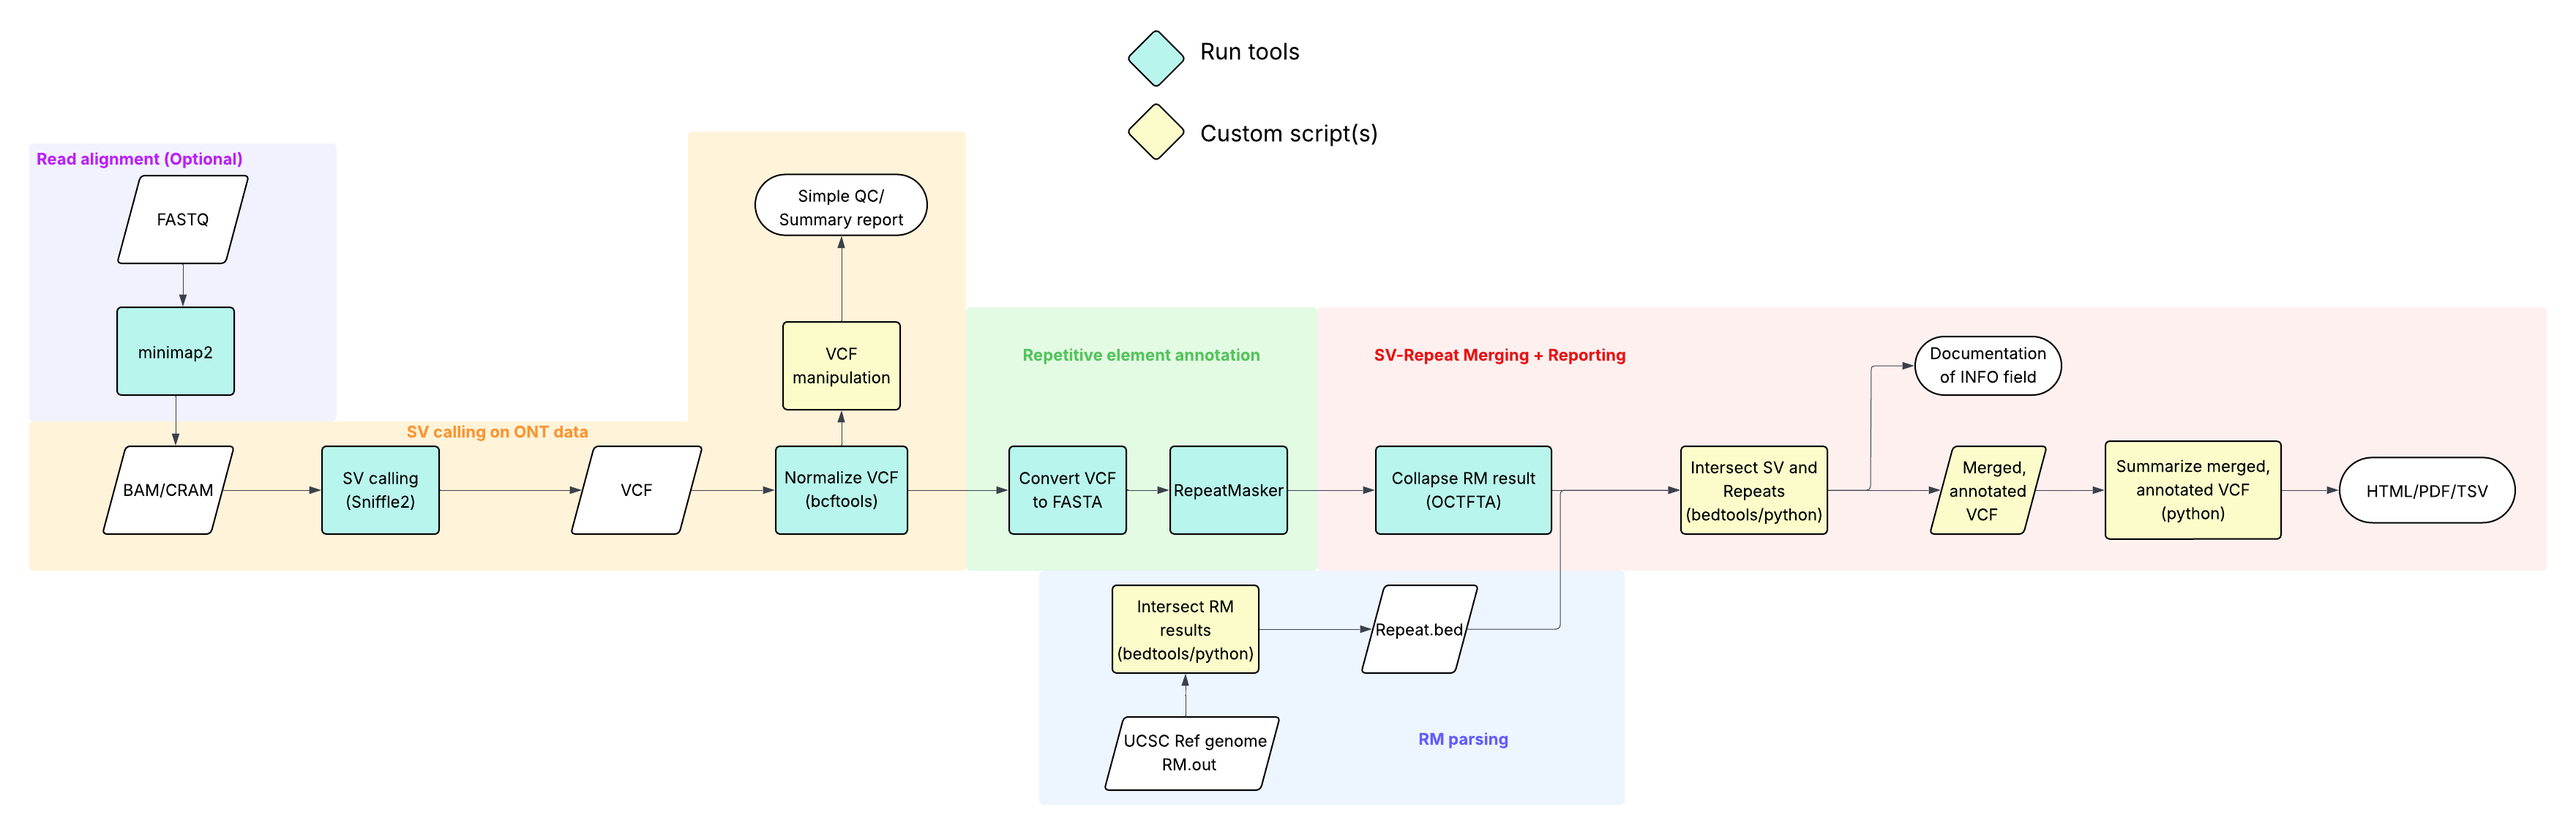
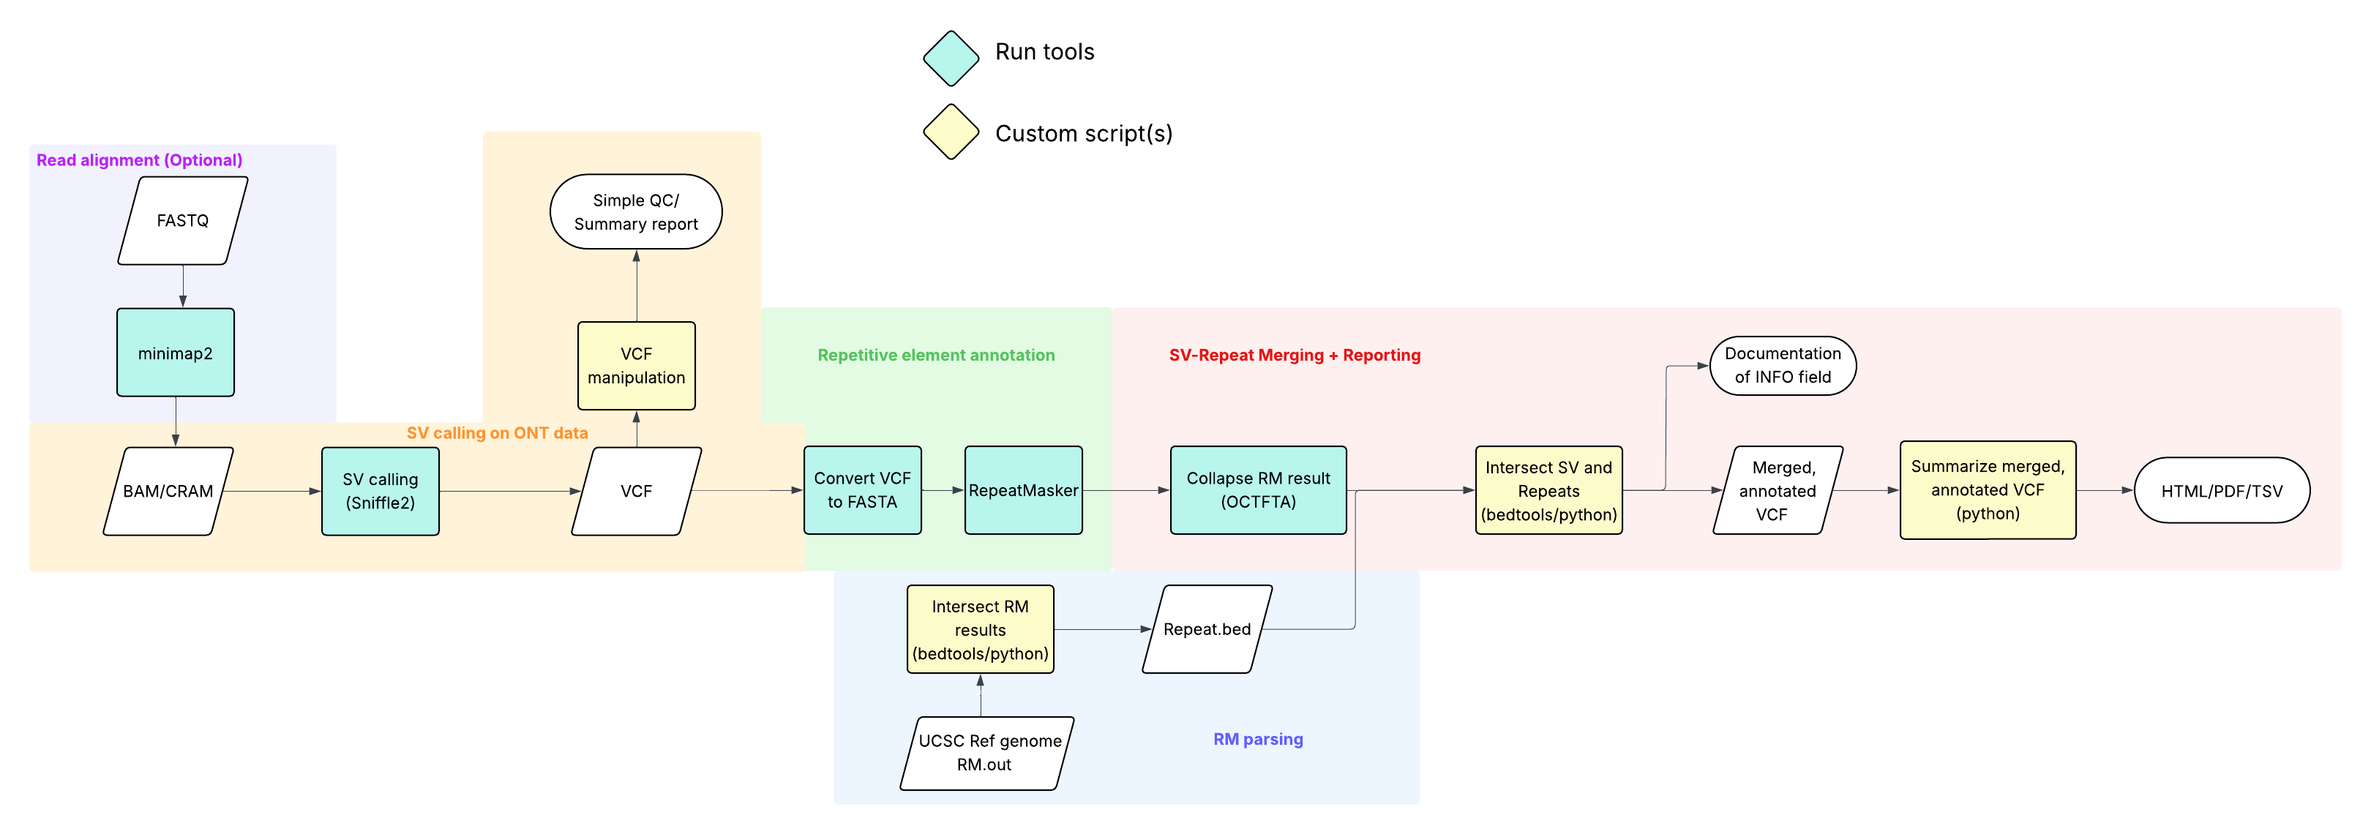
remove normalisation of vcf from flowchart; minor changes in README before start of day2

diff --git a/README.md b/README.md
@@ -3,7 +3,7 @@
 ### A one-click user-friendly pipeline to annotate structural variants with transposable element information
 #### Hackathon team: Michal Izydorczyk, Thomas Garcia, John Adedeji, Wai Yee (Nicola) Wong, Julian Chiu,  Quang Tran
 
-TRACE is a pipeline designed to annotate structural variants (SV) with transposable element (TE) information and generate both an annotated VCF and a human-readable summary report.
+TRACE (**T**ransposable element **R**ecognition **A**nd **C**omprehensive **E**valuation) is a pipeline designed to annotate structural variants (SV) with transposable element (TE) information and generate both an annotated VCF and a human-readable summary report.
 
 ## TRACE Workflow
 ![TRACE Workflow](assets/TRACE_workflow.png "TRACE Workflow")
@@ -20,6 +20,7 @@ Reference FASTA: GCA_000001405.15_GRCh38_no_alt_analysis_set.fasta
 - BAM/CRAM files
 - Reference genome (FASTA)
 - Optional: pre-existing SV VCF
+- Optional: FASTQ for alignment
 
 ## Outputs
 - Annotated VCF with TE fields
